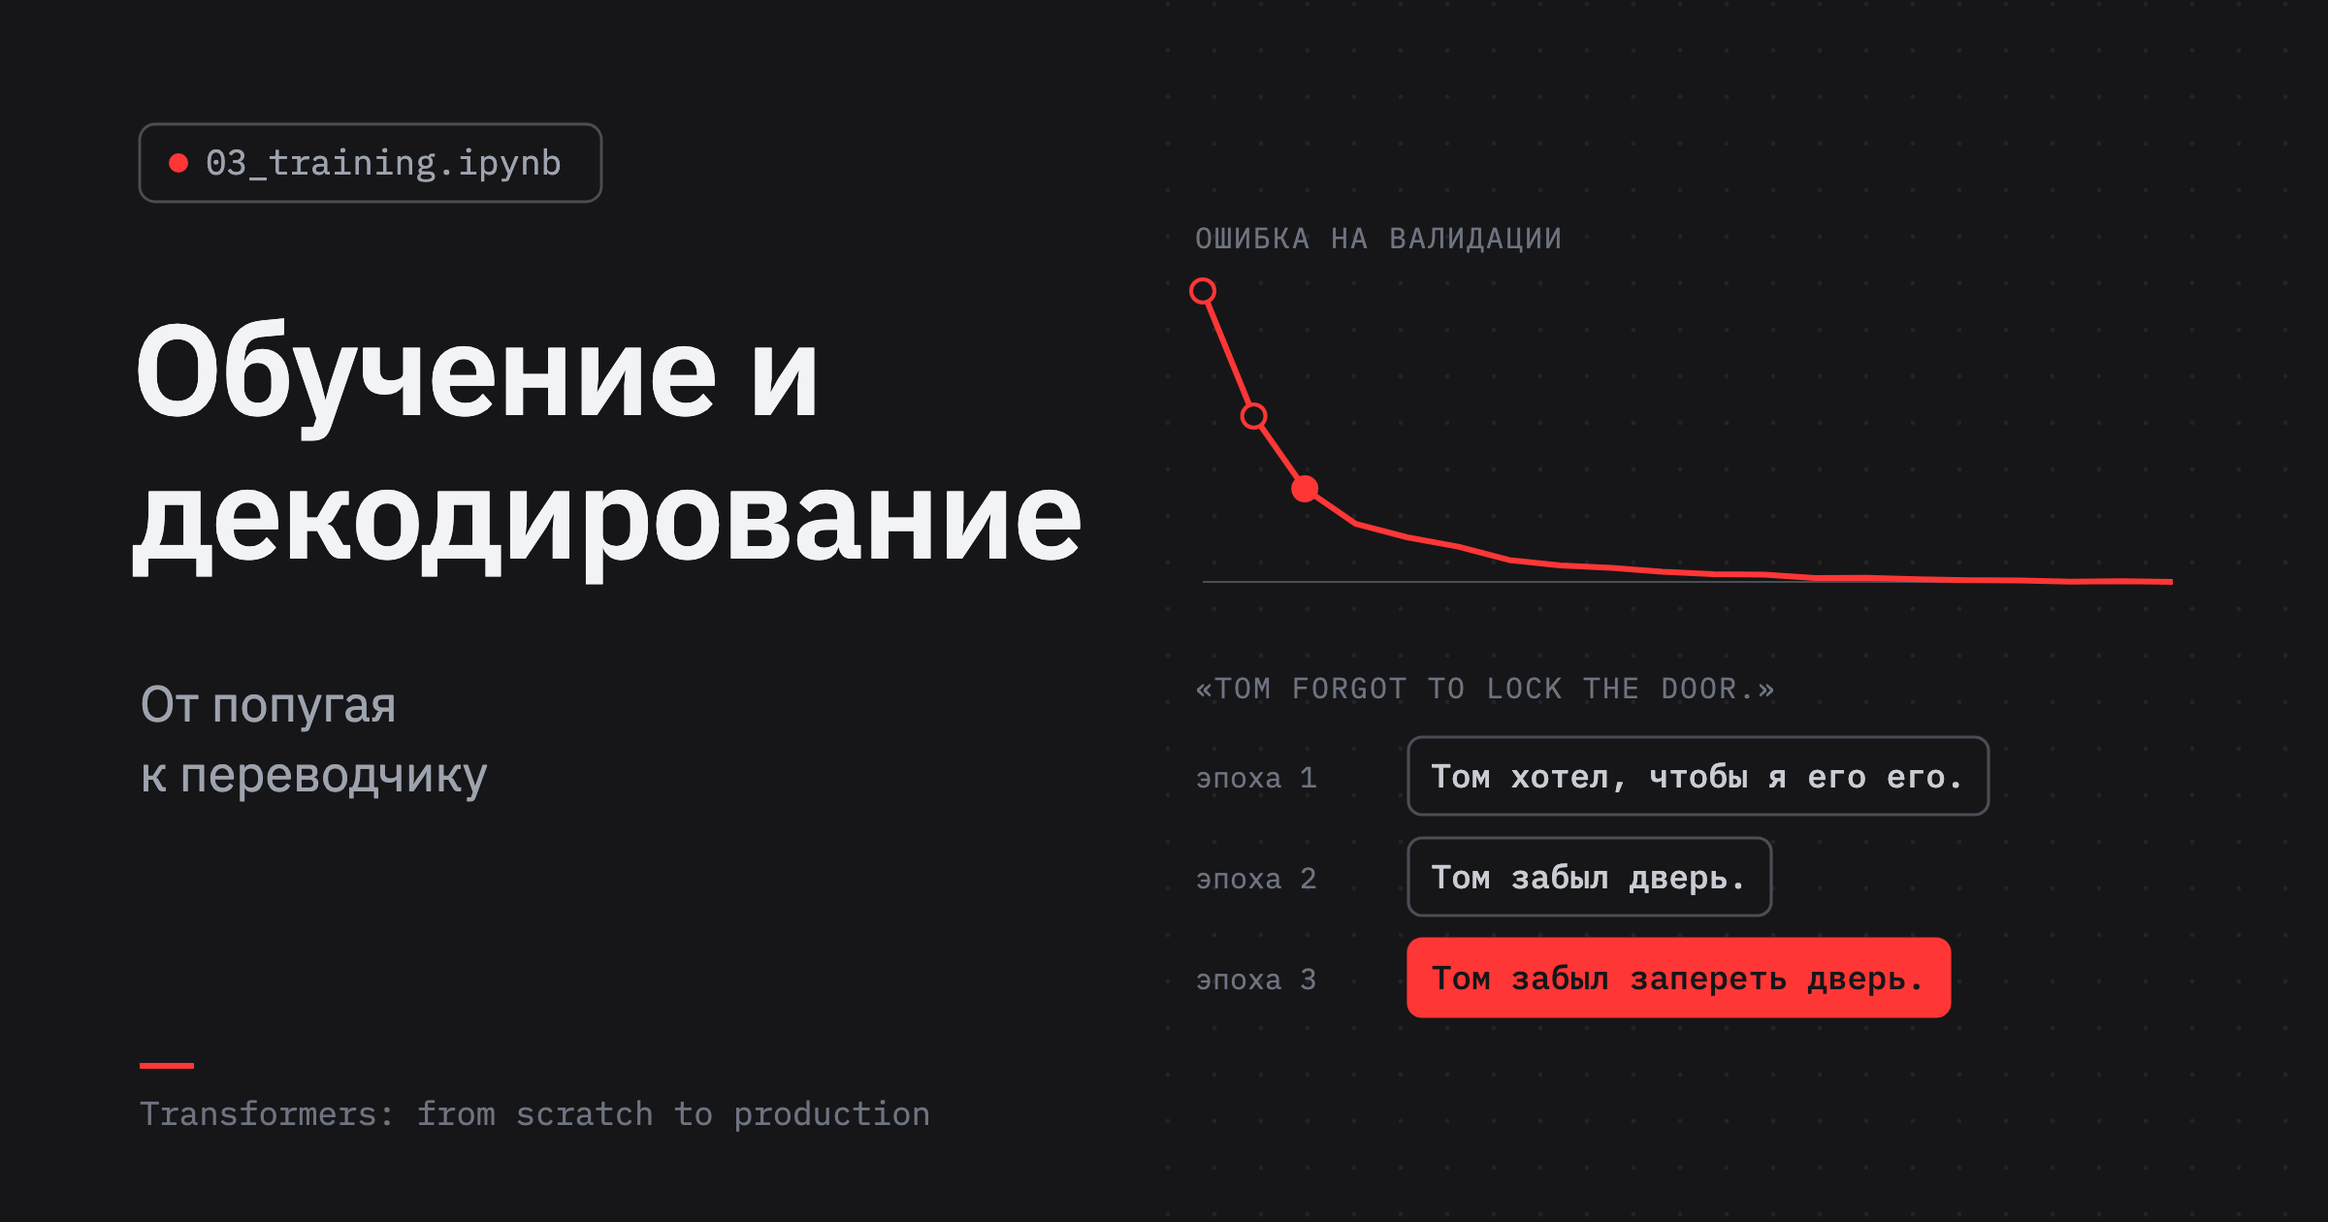
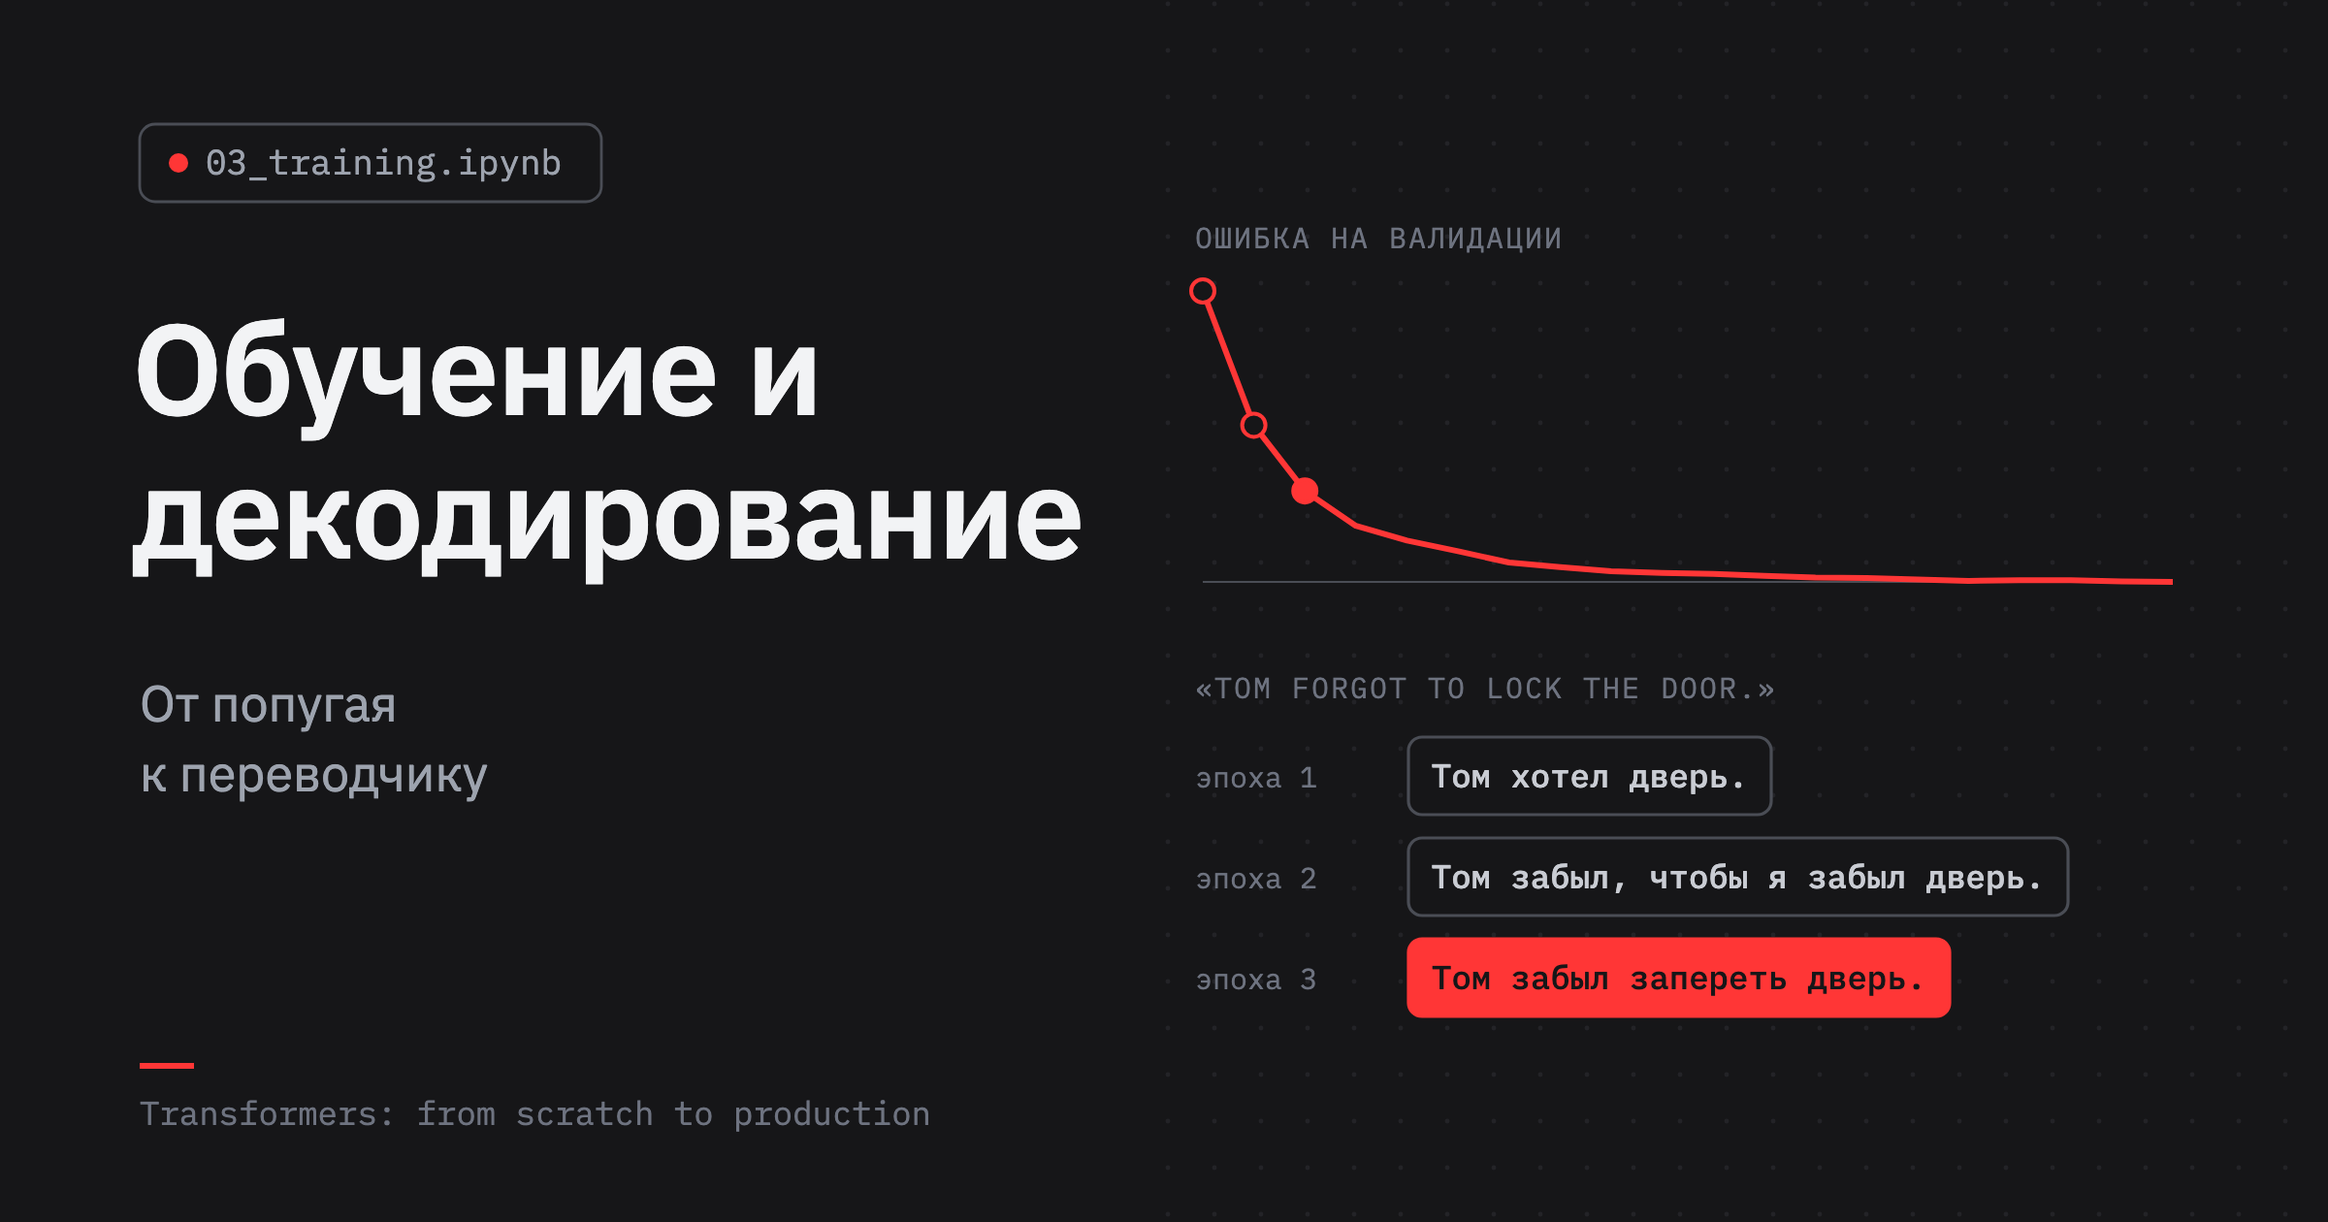
Lesson 3: text checked against the new run; clearer plots
The restructured training loop draws random numbers in a different order, so the run follows the
calibration trajectory: the text, the covers and the beam trace now describe it. One head of the
first layer looks at she while the suffix is written, and the model still doesn't write ница.
Grid lines sit behind bars in every course plot.

diff --git a/lessons/03_training/lesson.py b/lessons/03_training/lesson.py
@@ -343,7 +343,6 @@ smoothed = (1 - EPSILON) * one_hot + EPSILON / 8
 ax.bar(tokens - 0.2, one_hot, width=0.38, color=COLORS["muted"], label="plain target")
 label = f"smoothed, ε = {EPSILON}"
 ax.bar(tokens + 0.2, smoothed, width=0.38, color=COLORS["data"], label=label)
-ax.set_axisbelow(True)  # grid lines behind the bars
 ax.set_xticks(tokens, [f"t{k}" for k in tokens])
 ax.set_xlabel("token (a vocabulary of 8)")
 ax.set_title("Two targets")
@@ -637,8 +636,9 @@ steps = np.arange(1, total_steps + 1)
 fig, ax = plt.subplots(figsize=(6.4, 3))
 ax.plot(steps, [learning_rate(s, warmup=WARMUP) for s in steps], color=COLORS["enc"])
 ax.axvspan(0, min(WARMUP, total_steps), color=COLORS["enc"], alpha=0.08)  # the warm-up
+ax.text(min(WARMUP, total_steps) / 2, 0.0001, "warm-up", ha="center", fontsize=9, color=COLORS["enc"])
 for epoch in range(1, EPOCHS + 1):
-    ax.axvline(epoch * len(train_batches), color=COLORS["grid"], linewidth=0.8)
+    ax.axvline(epoch * len(train_batches), color=COLORS["line"], linewidth=0.6)
 ax.set_xlabel("step (thin lines: ends of epochs)")
 ax.set_ylabel("learning rate")
 ax.set_title("Warm up, then decay")
@@ -838,11 +838,11 @@ dashed = (0, (3, 3))
 precision_label = "float16: imprecise to the left"
 imprecise = math.log10(imprecise_in_float16)
 ax.axvline(imprecise, color=COLORS["dec"], linestyle=dashed, label=precision_label)
-ax.set_axisbelow(True)  # grid lines behind the bars
+ax.set_ylim(top=ax.get_ylim()[1] * 1.45)  # room for the legend above the bars
 ax.set_xlabel("log₁₀ |gradient|")
 ax.set_ylabel("weights")
 ax.set_title("Gradients on float16's scale")
-ax.legend(fontsize=8, loc="upper left")
+ax.legend(fontsize=8, loc="upper center", ncol=2)
 plt.show()
 
 # %%
@@ -854,7 +854,7 @@ print(f"gradients where float16 loses precision: {below_precise:.1%}")
 print(f"rounded to 0 after scaling by 65 536:  {after_scaling:.4%}")
 
 # %% [markdown]
-# A share of the gradients would vanish outright, and many more would lose most of their precision. Multiplying the
+# A few percent of the gradients would vanish outright, and most of them would lose precision. Multiplying the
 # loss by $2^{16}$ multiplies every gradient by the same factor (the chain rule is linear), shifts the whole
 # histogram to the right and brings almost all of them into range.
 #
@@ -1018,7 +1018,7 @@ table(progress[["epoch", *PROBES]])
 # %% [markdown]
 # In the first epoch the model strings frequent words together and repeats itself. Within a few epochs the
 # everyday sentences come out right and stay right. Our own sentence improves too, from nonsense to nearly correct
-# Russian, but never to the right translation: the researcher stays a man. Section 10 finds out why.
+# Russian, but never to the right translation: the researcher never becomes a woman. Section 10 finds out why.
 
 # %% [markdown]
 # ## 8. Decoding by search
@@ -1074,12 +1074,11 @@ for sentence in MINIMAL_PAIRS:
 table(pd.DataFrame(rows))
 
 # %% [markdown]
-# The pronoun and the verb after it follow the English: *она* with a feminine verb for *she*, a masculine *устал*,
-# *занят*, *измотан* for *he* (Russian often drops the pronoun there). Only the rare *exhausted* after *she* comes
-# out as a word that doesn't exist. The first half never changes with the pronoun: the person who speaks is a man,
-# or several people, whatever the English says. The sentences about the teacher, simple and
-# frequent in the data, get high scores, near 0; the one about the researcher, a rare word, much lower ones. Hold
-# these observations until section 10.
+# The pronoun and the words after it follow the English: *она* with a feminine form for *she*, *он* or a masculine
+# *занят* for *he* (Russian often drops the pronoun there). The first half never changes with the pronoun: the
+# person who speaks is a man, or several people, whatever the English says. The sentences about the teacher and
+# the neighbour, simple and frequent in the data, get scores much closer to 0 than those about the researcher, a
+# rare word. Hold these observations until section 10.
 #
 # Greedy decoding commits to every token for good. The most probable next token, though, isn't always the start of
 # the most probable sentence:
@@ -1157,17 +1156,15 @@ def beam_search(model, sentence, beam_size=4, alpha=0.6, max_tokens=60, trace=No
 
 
 # %% [markdown]
-# Watch the four beams grow on our sentence: the first steps and the last ones, each partial translation with its
-# total log-probability under it, the leader of every step filled.
+# Watch the four beams grow on our sentence during the first steps, each partial translation with its total
+# log-probability under it, the leader of every step filled.
 
 # %%
 trace = []
 beam = beam_search(model, EN_EXAMPLE, trace=trace)
 
-first_six, last_three = set(range(6)), set(range(len(trace) - 3, len(trace)))
-shown_steps = sorted(first_six | last_three)
 rows, totals, labels = [], [], []
-for step in shown_steps:
+for step in range(min(7, len(trace))):
     rows.append([text for text, _ in trace[step]])
     totals.append([f"{total:.2f}" for _, total in trace[step]])
     labels.append(f"step {step + 1}")
@@ -1186,9 +1183,10 @@ print("beam search:", beam)
 # %% [markdown]
 # Every step keeps four partial translations, ranked by their total log-probability, which only goes down as they
 # grow. The runners-up are the alternatives the search weighs: a plural subject, a different verb form, sometimes a
-# word that doesn't exist, which falls behind and is dropped. Where one of them overtakes the leader later in the
-# sentence, the beam's translation differs from greedy's. Here it happens at the last word: the beam replaces
-# greedy's invented *изнутана* with a real one.
+# word that doesn't exist, which falls behind and is dropped. The plural *Исследователи* takes the lead early and
+# keeps it, so for this sentence beam search ends where greedy decoding does; the singular *Исследователь* stays
+# in the beam as a runner-up. On other sentences an alternative overtakes the leader, as the comparison below
+# shows.
 #
 # Compare the two decoders on validation sentences: how often beam search changes the translation, and whether the
 # translations it picks are more probable under the model, which is what it searches for.
@@ -1323,9 +1321,9 @@ table(pd.DataFrame(rows))
 # %% [markdown]
 # At temperature 1 the samples wander: a draw from the long tail of sixteen thousand tokens now and then, and the
 # tail includes English tokens, because lesson 1 built one vocabulary for both languages. At 1.5 the output falls
-# apart. A low temperature with a top-p cut-off, the setting of the chat models in section 1, stays fluent and still
-# varies from draw to draw. For a translation that variety is no virtue: we want the one best reading, and that's
-# why translators search.
+# apart. A low temperature with a top-p cut-off, the setting of the chat models in section 1, stays close to the
+# greedy translation and varies a little from draw to draw. For a translation that variety is no virtue: we want
+# the one best reading, and that's why translators search.
 #
 # ## 10. Inside the trained model
 #
@@ -1371,11 +1369,10 @@ table(pd.DataFrame(rows))
 
 # %% [markdown]
 # The decoder has learned an alignment: while writing the stem *Исследо-ватель* it looks at the pieces of
-# *researcher*, while writing *сказала* at *said*, while writing *вымо-* at *exhausted*. Nobody told the model which
-# word translates which. Looking at the right English word made the next token easier to predict, and training
-# found that out on its own. The layers mostly agree, and the maps above show that the middle one points most
-# sharply; the others spread their attention more widely. Note the row *ница*: all three layers look at *said*
-# there.
+# *researcher*, while writing *сказала* at *said*, while writing *-мот-* at *exhausted*, and while writing *что*, the
+# start of the clause about her, at *she*. Nobody told the model which word translates which. Looking at the right
+# English word made the next token easier to predict, and training found that out on its own. The maps above show
+# that the middle layer points most sharply; the others spread their attention more widely.
 #
 # That answers the question lesson 2 left open: *сказала* doesn't look at *she*. It doesn't need to, as you are
 # about to see.
@@ -1397,11 +1394,12 @@ token_chips(
 plt.show()
 
 # %% [markdown]
-# The stem *Исследо-ватель* gets reasonable probabilities, and the feminine suffix *ница* almost none. Once
+# The model is sure of *Исследо-*, much less sure of *-ватель*, and gives the feminine suffix *ница* almost nothing.
+# Once
 # *ница* is in place (we supplied it), *сказала* becomes likely: agreement inside Russian, from one word to the
 # next, the model has learned. What it hasn't learned is to make the noun feminine because of a *she* that comes
-# three words later in the English. (The other filled tokens are a choice, not a mistake: the model would rather
-# continue *что она* than *что вы-*, a paraphrase it finds more probable.)
+# three words later in the English. (The other filled tokens are choices, not grammar: the model would rather
+# continue *что она* than *что вы-*, and after the rare *вымоталась* it doesn't expect the sentence to end.)
 #
 # And while it writes that suffix, does it look at *she* at all? Every head of every layer, at that one step:
 
@@ -1422,10 +1420,12 @@ she = en_tokens.index("▁she")
 print("the most any head gives to ▁she here:", round(at_suffix[:, she].max().item(), 2))
 
 # %% [markdown]
-# At the one step where *she* matters, the heads look at *said* and at the end of *researcher*. None of them gives
-# *she* more than a small share: the model never learned that this step depends on it.
+# Most heads look at *said* and at the end of *researcher*. But one head of the first layer gives most of its
+# attention to *she*: the information does reach the step that decides the suffix. And still the model writes
+# *ница* with a probability near zero. Looking at the right word is not enough; the layers above must also have
+# learned what *she* should do to a noun, and for that they need examples.
 #
-# Why not? Look at what the training data says. For a few English nouns of people, count the training pairs, and
+# How many examples did they get? Look at what the training data says. For a few English nouns of people, count the training pairs, and
 # how their Russian translations render the noun: with the masculine form or the feminine one. The patterns are
 # word stems, so that every case form counts (*учителем*, *учительницы*). Then the same counts for the pairs whose
 # English also contains *she* or *her*:
@@ -1509,12 +1509,12 @@ table(pd.DataFrame(rows))
 # %% [markdown]
 # opus-mt-en-ru gets the teacher and the neighbour right, noun and verb. It was trained on
 # [OPUS](https://opus.nlpl.eu), a collection of translated texts of every kind, of which Tatoeba is one small part,
-# and saw the feminine forms far more often than ours did. On the researcher it fails exactly like ours,
-# *Исследователь сказал*: even that much data didn't teach it this word. The architecture is the same, number for
+# and has most likely seen many more sentences like these. On the researcher it fails too, *Исследователь сказал*: even that
+# much data didn't teach it this word. The architecture is the same, number for
 # number, as lesson 2 showed; what differs is what each model has seen.
 #
-# On the sentences from the test set, ours holds up well for a model trained in twenty minutes, and some of its
-# translations match opus-mt-en-ru's word for word. That's an impression from a dozen sentences; lesson 4 replaces
+# On the sentences from the test set ours is uneven for a model trained in twenty minutes: some translations match
+# opus-mt-en-ru's word for word, others fall apart. That's an impression from a dozen sentences; lesson 4 replaces
 # it with measurements on the whole test set, with BLEU, chrF and COMET, and with an analysis of where each model
 # goes wrong.
 #

diff --git a/lessons/03_training/figures.py b/lessons/03_training/figures.py
@@ -371,10 +371,10 @@ def adam_update() -> Figure:
 
 # Copied from the executed lesson (section 7, the run published with it): validation loss per epoch, and greedy
 # translations of a probe sentence after the first three epochs.
-VALIDATION_LOSS = [4.373, 2.946, 2.117, 1.717, 1.565, 1.459, 1.305, 1.245, 1.217, 1.17, 1.145, 1.138, 1.101, 1.102,
-                   1.087, 1.077, 1.073, 1.059, 1.064, 1.056]
+VALIDATION_LOSS = [4.497, 2.912, 2.137, 1.724, 1.55, 1.424, 1.292, 1.237, 1.189, 1.169, 1.157, 1.134, 1.114, 1.109,
+                   1.091, 1.075, 1.083, 1.084, 1.067, 1.063]
 PROBE = "Tom forgot to lock the door."
-PROGRESS = {1: "Том хотел, чтобы я его его.", 2: "Том забыл дверь.", 3: "Том забыл запереть дверь."}
+PROGRESS = {1: "Том хотел дверь.", 2: "Том забыл, чтобы я забыл дверь.", 3: "Том забыл запереть дверь."}
 
 LATIN = dict(zip("абвгдеёжзийклмнопрстуфхцчшщъыьэюя",
                  ["a", "b", "v", "g", "d", "e", "yo", "zh", "z", "i", "y", "k", "l", "m", "n", "o", "p", "r", "s", "t",

diff --git a/src/tfs/viz/style.py b/src/tfs/viz/style.py
@@ -49,6 +49,7 @@ def use_course_style(theme: str = "light") -> dict[str, str]:
             "axes.spines.top": False,
             "axes.spines.right": False,
             "axes.grid": True,
+            "axes.axisbelow": True,  # grid lines behind bars and lines
             "axes.grid.axis": "y",
             "grid.color": c["grid"],
             "grid.linewidth": 1,

diff --git a/docs/style-guide.md b/docs/style-guide.md
@@ -81,7 +81,10 @@ The reader is a beginner who reads every line. Code that looks generated loses t
 - **Code lines up to 92 characters**, so a Kaggle or Colab cell shows them without scrolling
   (`tests/test_lessons.py` checks it).
 - Invisible characters (combining marks, non-breaking spaces) are written as `\u` escapes, never pasted.
-- One idea per cell, at most ~25 lines. Explain before the cell, interpret after it.
+- One idea per cell, at most ~25 lines; a longer function gets a cell of its own with a sentence before it. Explain
+  before the cell, interpret after it.
+- When a lesson writes an algorithm that a library also provides (attention, LayerNorm, Adam), check the two
+  against each other with an `assert`.
 - Checks are `assert`s introduced in the text ("rather than believe it, check it").
 - When the text needs a number the code computes, make the notebook print it right there and refer to the output.
   Numbers typed into the text go stale as soon as something upstream changes.
@@ -113,6 +116,10 @@ A notebook is read as much as it is run, so every output is designed:
 - **Concept diagrams** are code in `lessons/NN/figures.py`, rendered by `tools/render.py` in light and dark.
   `Figure.problems()` must be empty (nothing outside the canvas, no overlapping labels, no text crossing a box),
   and both themes are looked at before the PR.
+- Every key concept of a lesson gets a picture, not only the architecture: the loss, the optimizer, the learning
+  rate, a number format, a decoding step. A formula and its picture go together.
+- A picture must show what the text claims, checked on its numbers. A toy example is tuned honestly: if the simple
+  method wins somewhere (gradient descent on a mildly uneven valley), the lesson says so and shows where it loses.
 - A static figure that shows facts about real systems or algorithms **computes them at render time**: the hero of
   lesson 1 calls GPT-4o's tokenizer, the union–find figure runs the same algorithm as the notebook on the same
   pairs, the BPE update figure counts the pairs.
